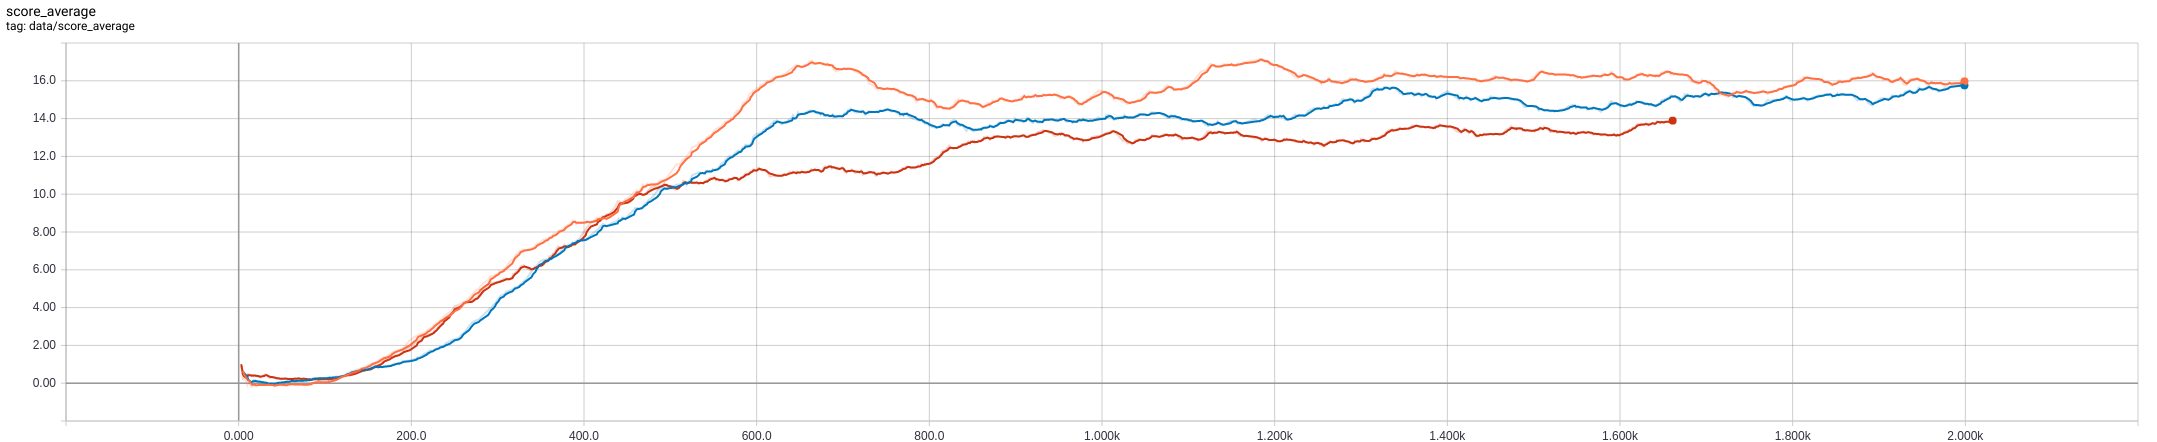
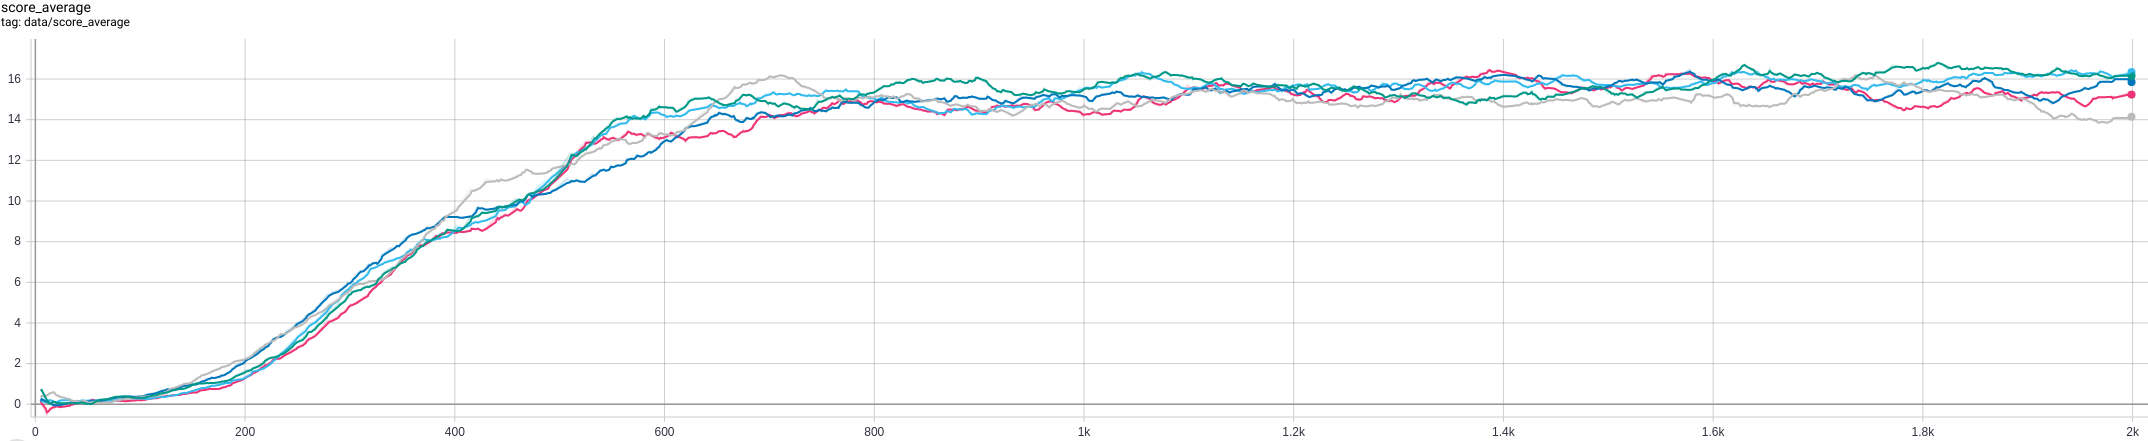
updated images

diff --git a/README.md b/README.md
@@ -67,3 +67,6 @@ https://youtu.be/uQFR3ll6CqM
 
 Here is a graph of the progression of the last 100 scores average from Tensorboard
 ![alt text](images/tensorboard1.png)
+
+Here is a graph showing the progression of the score on a single run (not averaged):
+![alt text](images/score1.png)
